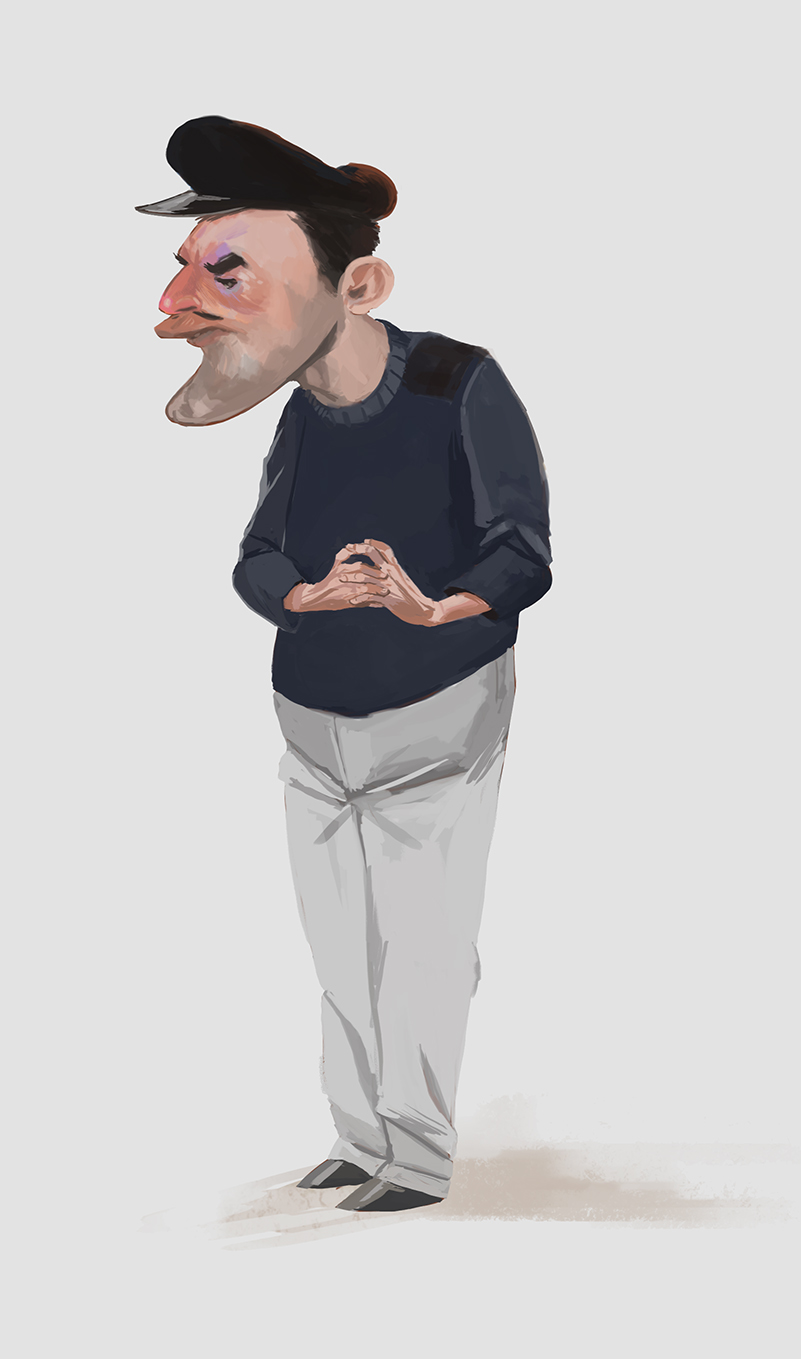
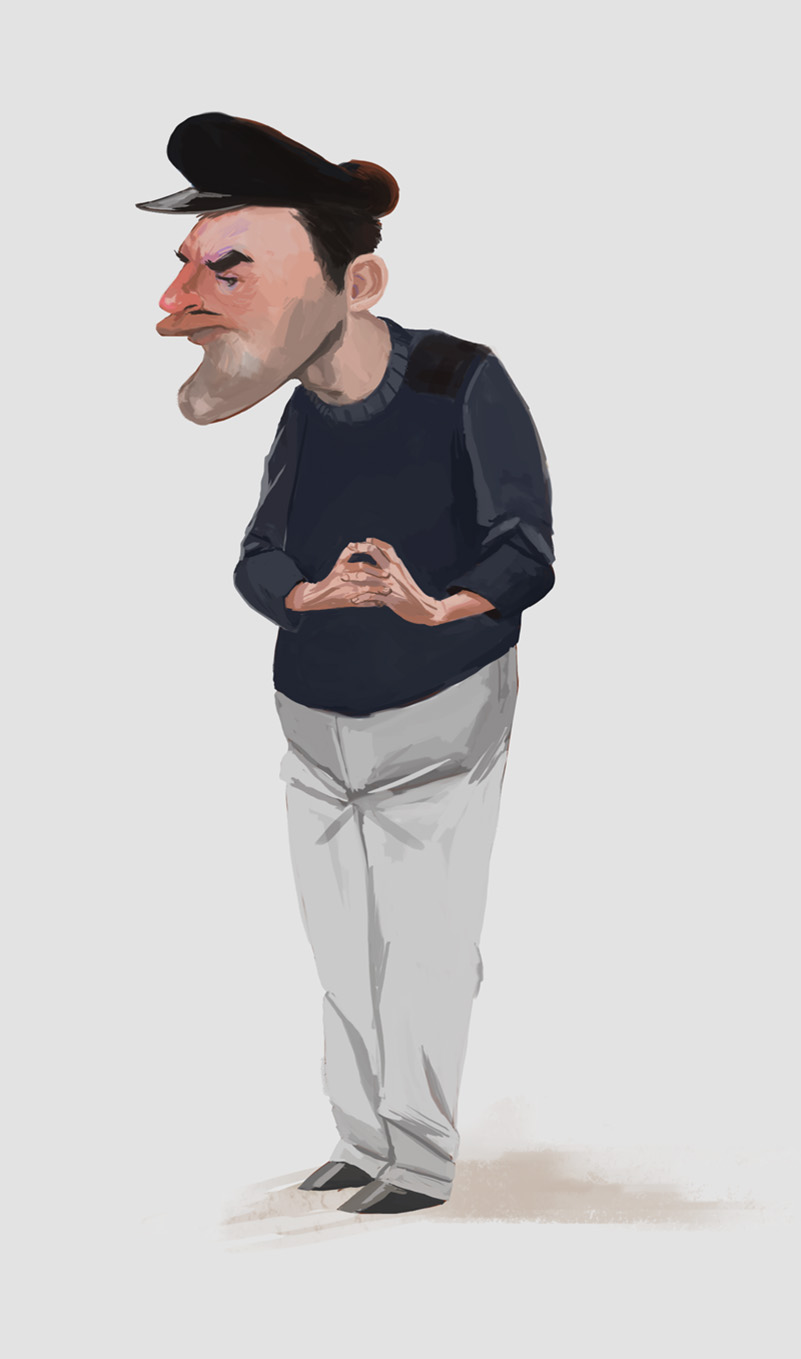
3-guys is actuallly called revisionist, whatever... also I revised it.

diff --git a/index.html b/index.html
@@ -90,7 +90,7 @@
 		</div>
 		<div class="responsive-thumb">
 			<div class="img">
-				<a  href="3-guys.html">
+				<a  href="revisionist.html">
 					<img src="images/thumb-3-guys.jpg" alt="3 Guys" /></a>
 			</div>
 		</div>
